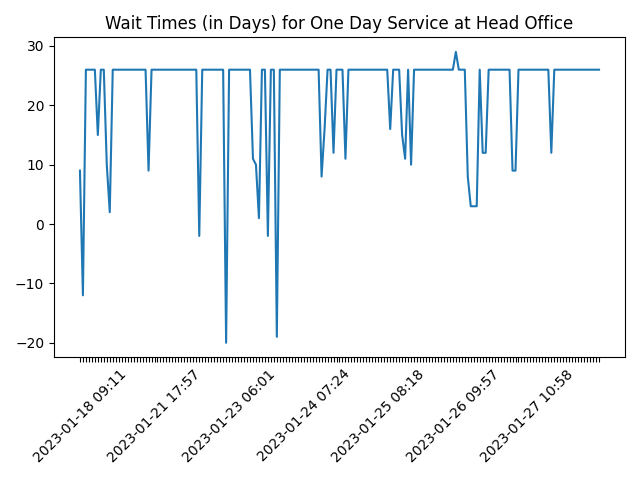
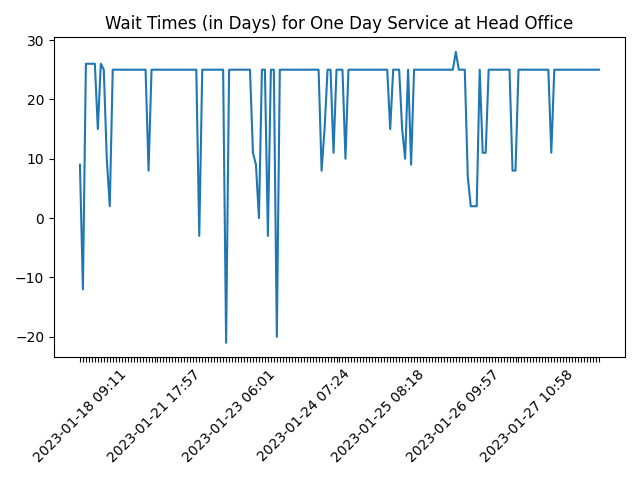
Updated data Mon Feb 13 06:29:34 UTC 2023

diff --git a/README.md b/README.md
@@ -1,5 +1,5 @@
 # Passport Application Reservation System - Availability Report
 
-*As of February 13, 2023 (06:15 AM)*
+*As of February 13, 2023 (11:59 AM)*
 
 Data Source: [Passport Application Reservation System](https://eservices.immigration.gov.lk:8443/appointment/pages/reservationApplication.xhtml)

diff --git a/summary.md b/summary.md
@@ -2,7 +2,7 @@
 
 Of the data from the Passport Application Reservation System of the Sri Lanka Department of Immigration and Emigration.
 
-*As of 2023-02-13 06:15:25*
+*As of 2023-02-13 11:59:32*
 
 ![Wait Time Chart](summary.wait_time_chart.png)
 
